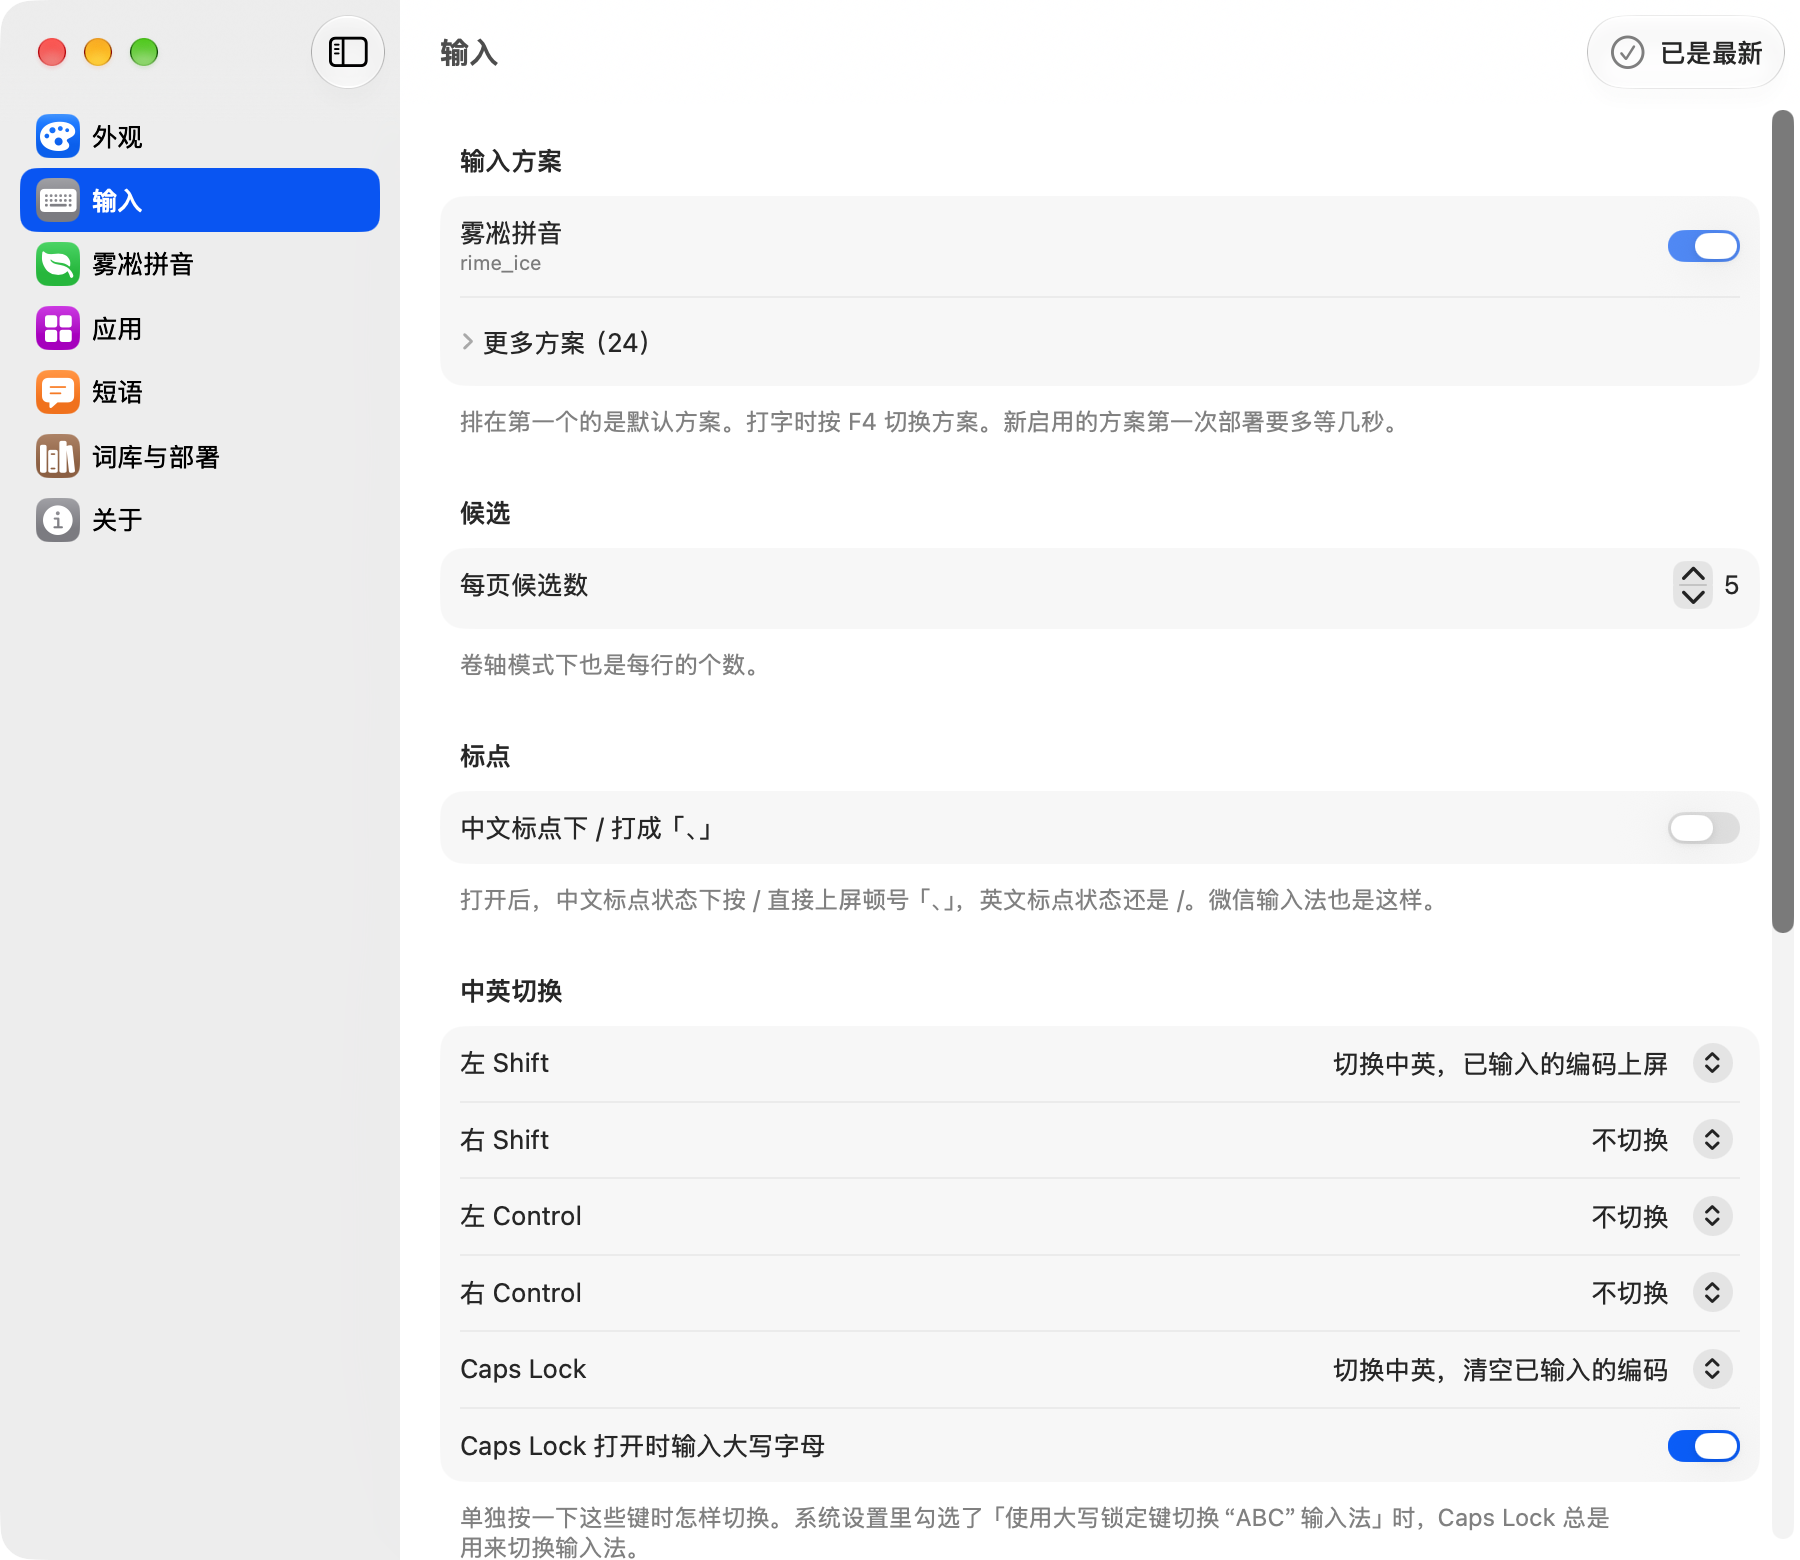
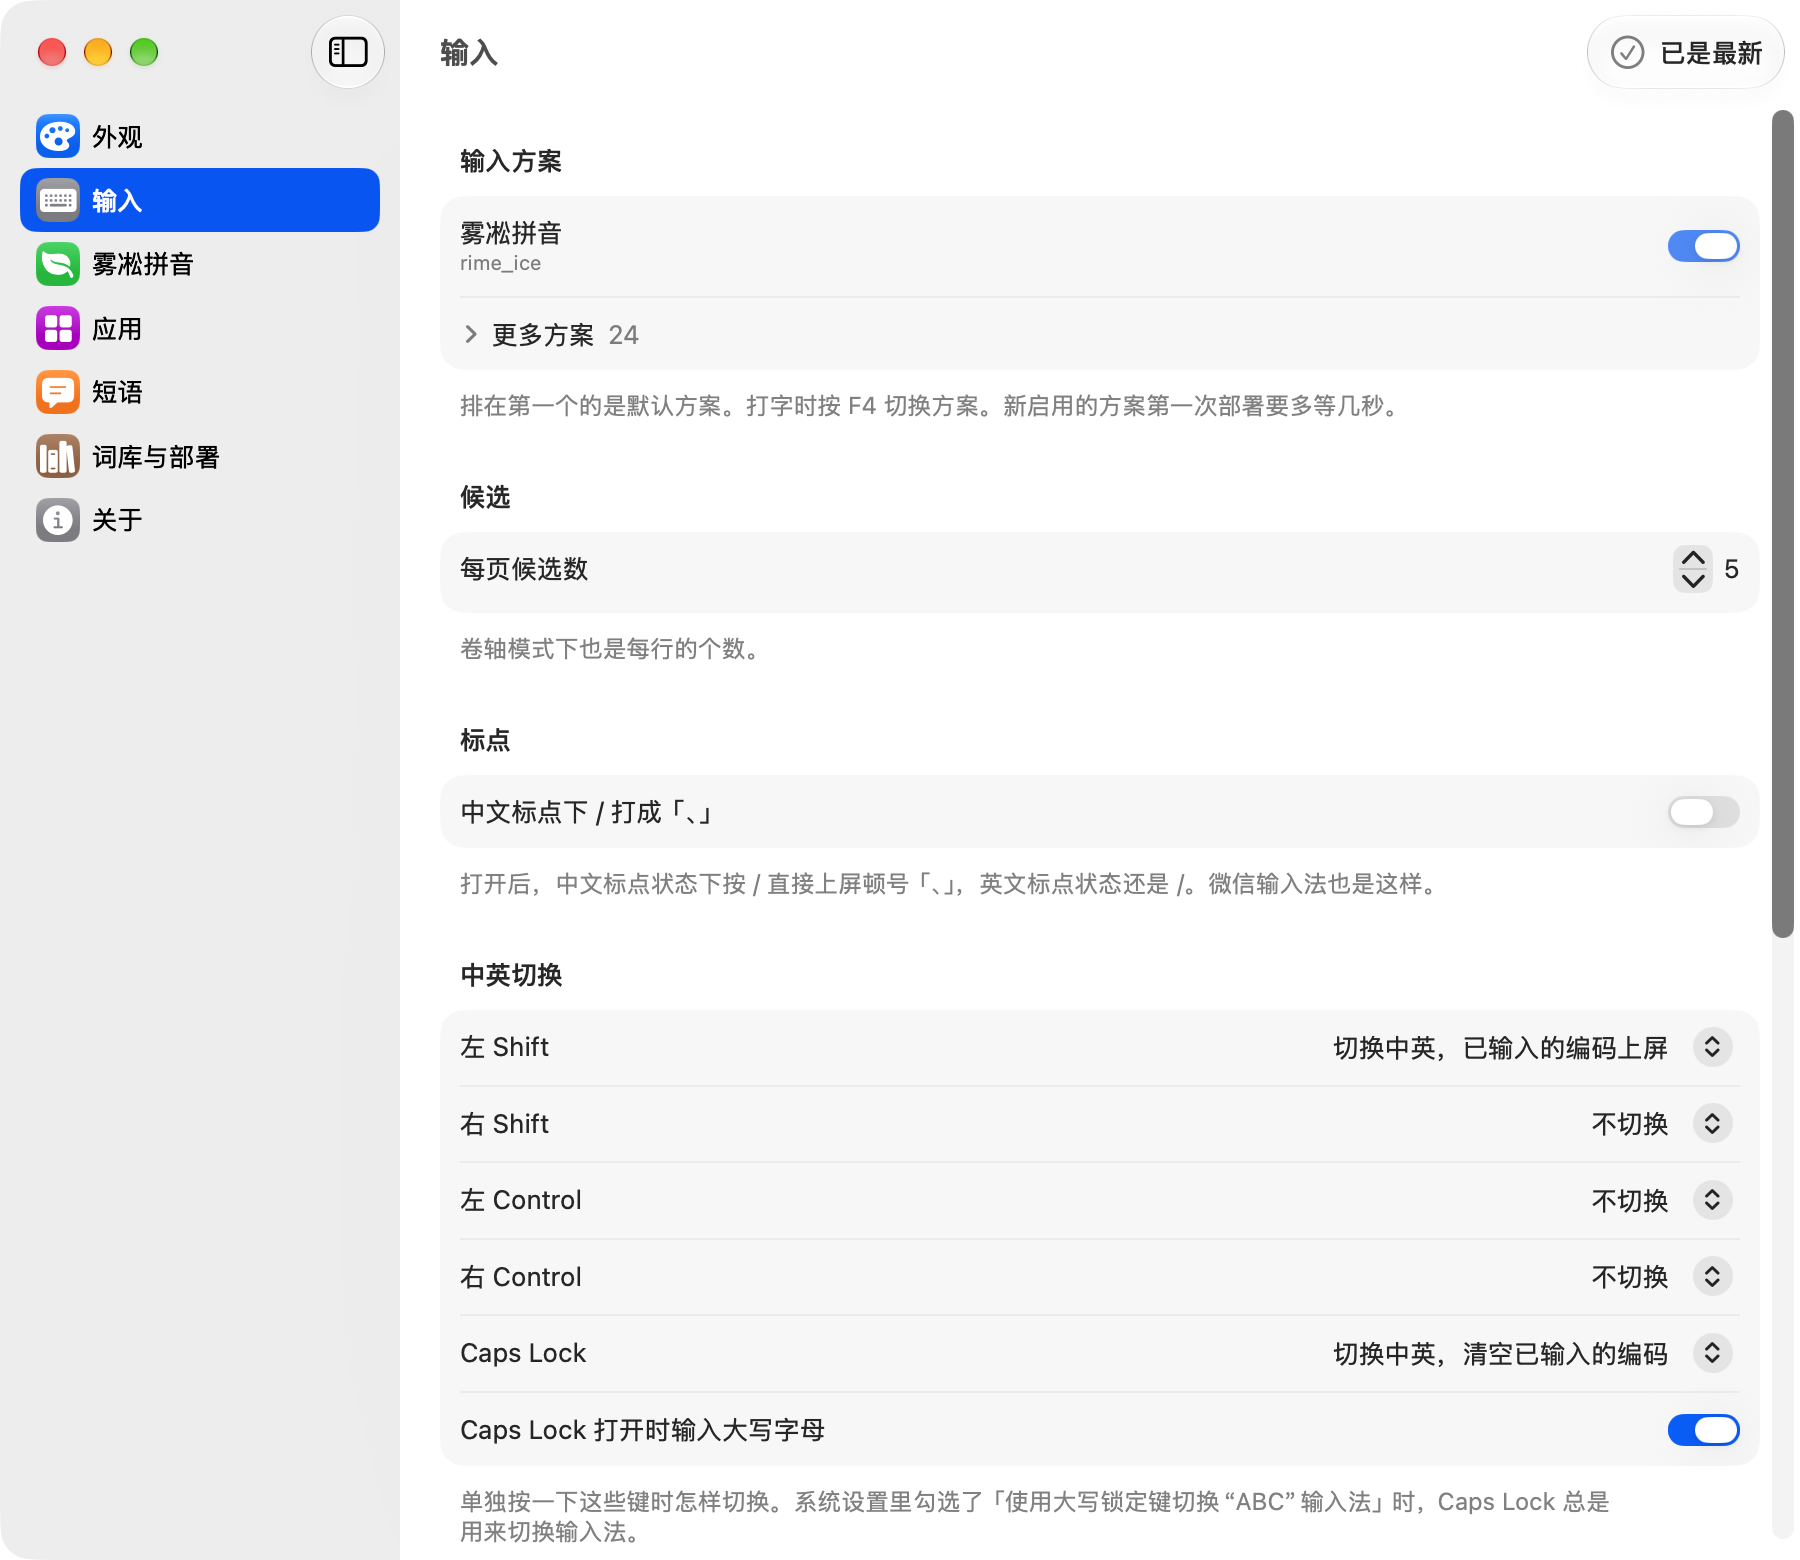
「更多方案」整行可点，和上面的间隔也正常了
用的是 SwiftUI 自带的 DisclosureGroup，有两个问题：
- 只有那个小三角能点开，点文字没反应；
- 展开的内容紧贴在标题下面，和上面「雾凇拼音」那一行的间距对不上，挤在一起。

换成自己写的一行：整个 HStack 套 contentShape(Rectangle()) 再包一个 Button，
点哪里都能展开/收起，箭头跟着转。展开的方案改成跟「更多方案」这一行平级的普通行，
不再是嵌在三角下面的子视图，于是 Form 自动给的行间距、分割线都和别的行一样了。

测试：220 项照常全过；README 输入页截图重拍（文案从「更多方案（24）」
变成「更多方案 24」，去掉全角括号）。

diff --git a/settings/Sources/Views/InputPage.swift b/settings/Sources/Views/InputPage.swift
@@ -69,7 +69,11 @@ struct InputPage: View {
         schemaRow(schema, enabled: true, index: index, count: schemas.enabled.count)
       }
       if !schemas.rest.isEmpty {
-        DisclosureGroup("更多方案（\(schemas.rest.count)）", isExpanded: $showsAllSchemas) {
+        // Not SwiftUI's DisclosureGroup: its content sits right under the triangle with no room
+        // to breathe, and only the triangle (not the label) opens it. This is its own row, so
+        // its rows below get the same spacing as any other — and the whole row is the button.
+        moreSchemasRow(count: schemas.rest.count)
+        if showsAllSchemas {
           ForEach(schemas.rest) { schemaRow($0, enabled: false, index: 0, count: 0) }
         }
       }
@@ -78,6 +82,26 @@ struct InputPage: View {
     } footer: {
       Note(schemaFooter)
     }
+  }
+
+  private func moreSchemasRow(count: Int) -> some View {
+    Button {
+      withAnimation(.easeInOut(duration: 0.15)) { showsAllSchemas.toggle() }
+    } label: {
+      HStack(spacing: 6) {
+        Image(systemName: "chevron.right")
+          .font(.caption.weight(.bold))
+          .foregroundStyle(.secondary)
+          .rotationEffect(.degrees(showsAllSchemas ? 90 : 0))
+          .frame(width: 10)
+        Text("更多方案")
+        Text("\(count)")
+          .foregroundStyle(.secondary)
+        Spacer()
+      }
+      .contentShape(Rectangle())
+    }
+    .buttonStyle(.plain)
   }
 
   private var schemaFooter: String {
